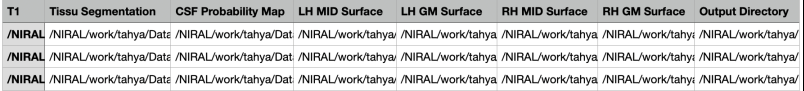
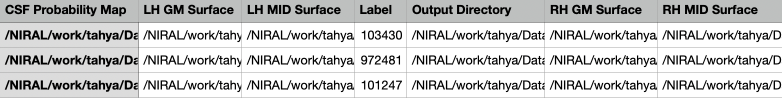
commit

diff --git a/src/app/csfwindow.cpp b/src/app/csfwindow.cpp
@@ -120,6 +120,10 @@ void CSFWindow::setConfig(QJsonObject root_obj)
 
     clean->setChecked(param_obj["Clean"].toBool());
     radioButton_slurm->setChecked(param_obj["Slurm"].toBool());
+    // to test:
+    if(param_obj["Slurm"].toBool()==true){radioButton_slurm->setChecked(true);}
+    else{radioButton_slurm->setChecked(false);}
+    /// /////
     if(param_obj["Slurm"].toBool())
         {slurm_parameters_state(true);}
     else{slurm_parameters_state(false);}
@@ -388,6 +392,19 @@ void CSFWindow::on_Data_Directory_clicked()
          lineEdit_Data_Directory->setText(path);
      }
 }
+
+void CSFWindow::on_checkBox_75P_Surface_batch_stateChanged(int state)
+{
+    bool enab;
+        if (state==Qt::Checked){enab=true;}
+        else{enab=false;}
+        LH_GM_filter->setEnabled(enab);
+        RH_GM_filter->setEnabled(enab);
+        lineEdit_LH_GM_filter->setEnabled(enab);
+        lineEdit_RH_GM_filter ->setEnabled(enab);
+        checkBox_75P_Surface->setChecked(enab);
+
+}
 void CSFWindow::on_Find_clicked()
 {
    QString data_directory = lineEdit_Data_Directory->text();
@@ -474,7 +491,7 @@ bool CSFWindow::Find_File(QDir oDir, QString filter, QString key, QMap<QString, 
 
 void CSFWindow::on_Add_clicked()
 {
-    addWidget *add_Widget = new addWidget();
+    addWidget *add_Widget = new addWidget(0,checkBox_75P_Surface_batch->isChecked());
     connect(add_Widget, SIGNAL(add_to_model( QMap<QString, QString>* )), this, SLOT(addToModel(QMap<QString, QString>* )));
     add_Widget->show();
 }
@@ -509,17 +526,17 @@ void CSFWindow::on_Help_clicked()
     help->resize(900, 520);
 
     QLabel *help_txt_1 = new QLabel(help);
-    help_txt_1->setGeometry(20,10,200,30);
-    help_txt_1->setText("<b> The Data Directory should be like: </b>");
+    help_txt_1->setGeometry(20,10,900,30);
+    help_txt_1->setText("<b> The Data Directory should be like the following example, if you don't want to use 75P surface no need to provide LH_GM.vtk and RH_GM.vtk: </b> " );
 
     QLabel *Data_directory_image = new QLabel(help);
-    Data_directory_image->setGeometry(20,30,800,300);
+    Data_directory_image->setGeometry(20,20,800,300);
     QPixmap pic(":/batch/BatchProcessingDirectory.png");
     Data_directory_image->setPixmap(pic);
 
     QLabel *help_txt_2 = new QLabel(help);
-    help_txt_2->setGeometry(20,330,700,30);
-    help_txt_2->setText("<b> The CSV File should be like the following example ( the order of the header doesn't matter) : </b>");
+    help_txt_2->setGeometry(20,330,900,30);
+    help_txt_2->setText("<b> The CSV File should be like the following example ( the order of the header doesn't matter) same as above about providing LH_GM.vtk and RH_GM.vtk: </b>");
 
     QLabel *CSV_image = new QLabel(help);
     CSV_image->setGeometry(20,250,800,320);
@@ -709,6 +726,19 @@ void CSFWindow::on_output_directory_clicked()
     }
 }
 
+void CSFWindow::on_checkBox_75P_Surface_stateChanged(int state)
+{
+    bool enab;
+    if (state==Qt::Checked){enab=true;}
+    else{enab=false;}
+    gray_matter_surfaces->setEnabled(enab);
+    LH_GM_Surface->setEnabled(enab);
+    RH_GM_Surface->setEnabled(enab);
+    lineEdit_LH_GM_Surface->setEnabled(enab);
+    lineEdit_RH_GM_Surface->setEnabled(enab);
+}
+
+
 // 3rd Tab - Executables tab
 void CSFWindow::updateExecutables(QString exeName, QString path)
 {
@@ -856,40 +886,46 @@ void CSFWindow::run_Local_EACSF(int row)
     QString scripts_dir = QDir::cleanPath(output_dir + QString("/LocalEACSF") + QString("/PythonScripts"));
     QString outlog_filename = QDir::cleanPath(output_dir + QString("/LocalEACSF") + QString("/output_log.txt"));
     QString errlog_filename = QDir::cleanPath(output_dir + QString("/LocalEACSF") + QString("/errors_log.txt"));
+    QString CSF_volume_filename = QDir::cleanPath(output_dir + QString("/LocalEACSF") + QString("/CSFVolume.txt"));
+    QFile volume_file(CSF_volume_filename);
 
 
     if (radioButton_local->isChecked())
     {  
+        if(volume_file.exists()) 
+        {       
+            output->append(QString("Compute Local EACSF Density already done for ID: ") + data_obj["Label"].toString() + QString("already done"));
+        } 
+        else
+        {
+            CleanFile(outlog_filename);
+            CleanFile(errlog_filename);
 
-        CleanFile(outlog_filename);
-        CleanFile(errlog_filename);
+            QString main_script = QDir::cleanPath(scripts_dir + QString("/main_script.py"));
+            QStringList params = QStringList() << main_script;
 
-        QString main_script = QDir::cleanPath(scripts_dir + QString("/main_script.py"));
-        QStringList params = QStringList() << main_script;
-
-        prc->setWorkingDirectory(output_dir); 
-        connect(prc, &QProcess::readyReadStandardOutput, [prc, outlog_filename, this](){
-           disp_output(prc, outlog_filename);
-        });
-        connect(prc, &QProcess::readyReadStandardError, [prc, errlog_filename, this](){
-           disp_err(prc, errlog_filename);
-        });
-        connect(prc, static_cast<void(QProcess::*)(int, QProcess::ExitStatus)>(&QProcess::finished), [prc, outlog_filename, errlog_filename, row, this ](){
-            prc_finished(prc, outlog_filename, errlog_filename, row);  
-        });
-       
-        QMap<QString, QString> executables = m_exeWidget->GetExeMap();
-        prc->start(executables[QString("python3")], params);  
-        
+            prc->setWorkingDirectory(output_dir); 
+            connect(prc, &QProcess::readyReadStandardOutput, [prc, outlog_filename, this](){
+               disp_output(prc, outlog_filename);
+            });
+            connect(prc, &QProcess::readyReadStandardError, [prc, errlog_filename, this](){
+               disp_err(prc, errlog_filename);
+            });
+            connect(prc, static_cast<void(QProcess::*)(int, QProcess::ExitStatus)>(&QProcess::finished), [prc, outlog_filename, errlog_filename, row, this ](){
+                prc_finished(prc, outlog_filename, errlog_filename, row);  
+            });
+           
+            QMap<QString, QString> executables = m_exeWidget->GetExeMap();
+            prc->start(executables[QString("python3")], params);         
+        }
     }
     
     if (radioButton_slurm->isChecked())
     {
-        QString CSF_volume_filename = QDir::cleanPath(output_dir + QString("/LocalEACSF") + QString("/CSFVolume.txt"));
-        QFile volume_file(CSF_volume_filename);
+        
         if(volume_file.exists()) 
         {       
-            output->append(QString("Compute Local EACSF Density already done"));
+            output->append(QString("Compute Local EACSF Density already done for ID: ") + data_obj["Label"].toString()  + QString("already done"));
         } 
         else
         {
@@ -1037,7 +1073,8 @@ void CSFWindow::on_Compare_clicked()
         {
             QString left = tableWidget->item(row,0)->text();
             QString right = tableWidget->item(row,1)->text();
-            float difference = (left.toFloat() - right.toFloat())/ (left.toFloat() + right.toFloat())/2;
+            //float difference = (left.toFloat() - right.toFloat())/ (left.toFloat() + right.toFloat())/2;
+            float difference = (left.toFloat() - right.toFloat())/ ((left.toFloat() + right.toFloat())/2);
             tableWidget->setItem( row, 2, new QTableWidgetItem( QString::number( difference * 100, 'f' , 2 ))); 
         }                   
     }
@@ -1058,30 +1095,8 @@ void CSFWindow::on_Compare_clicked()
     }   
 }
 
-void CSFWindow::on_checkBox_75P_Surface_stateChanged(int state)
-{
-    bool enab;
-    if (state==Qt::Checked){enab=true;}
-    else{enab=false;}
-    gray_matter_surfaces->setEnabled(enab);
-    LH_GM_Surface->setEnabled(enab);
-    RH_GM_Surface->setEnabled(enab);
-    lineEdit_LH_GM_Surface->setEnabled(enab);
-    lineEdit_RH_GM_Surface->setEnabled(enab);
-}
 
-void CSFWindow::on_checkBox_75P_Surface_batch_stateChanged(int state)
-{
-    bool enab;
-        if (state==Qt::Checked){enab=true;}
-        else{enab=false;}
-        LH_GM_filter->setEnabled(enab);
-        RH_GM_filter->setEnabled(enab);
-        lineEdit_LH_GM_filter->setEnabled(enab);
-        lineEdit_RH_GM_filter ->setEnabled(enab);
-        checkBox_75P_Surface->setChecked(enab);
 
-}
 
 void CSFWindow::on_visualize_batch_clicked()
 {
@@ -1120,8 +1135,8 @@ void CSFWindow::on_help_clicked()
     help->resize(900, 200);
 
     QLabel *help_txt_1 = new QLabel(help);
-    help_txt_1->setGeometry(20,10,200,30);
-    help_txt_1->setText("<b> The CSV file  should be like: </b>");
+    help_txt_1->setGeometry(20,10,800,30);
+    help_txt_1->setText("<b> The CSV file  should be like the followinf example. this csv file is created while batch processing and you can find it in the data directory : </b>");
 
     QLabel *Data_directory_image = new QLabel(help);
     Data_directory_image->setGeometry(20,30,800,150);

diff --git a/src/app/main_script.py b/src/app/main_script.py
@@ -56,10 +56,10 @@ def main(args):
 	RH_CSFDensity_Path = os.path.join(args.Output_Directory, "LocalEACSF", "RH_Directory", args.Label + "_RH_" + surface + "_CSF_Density_Final.txt")
 	####
 	if(path.exists(os.path.join(OUT_PATH, args.Label + "_CSFVolume.txt"))):
-		print("Compute Local EACSF Density already done",flush=True)
+		print('Compute Local EACSF density already done for ID {} is already done'.format(args.Label) , flush=True)
 	else :
 		Process_Left_Side = subprocess.call([python, process_left_hemisphere])
-		#Process_Right_Side = subprocess.call([python, process_right_hemisphere])
+		Process_Right_Side = subprocess.call([python, process_right_hemisphere])
 	
 		if (os.path.isfile(LH_CSFDensity_Path) and os.path.isfile(RH_CSFDensity_Path)):
 			os.chdir(OUT_PATH)
@@ -80,20 +80,26 @@ def main(args):
 				os.path.join("RH_Directory", args.Label + "_CSF_Probability_Map.nrrd"),"--CSFFile", os.path.join("RH_Directory", args.Label\
 				+ "_RH_" + surface + "_CSF_Density_Final.txt") , "--Side", "Right", "--Label", args.Label])
 
-		if (os.path.isfile("../Outputs.csv")):
+			if (os.path.isfile("../Outputs.csv")):
 
-			header = ["LH CSF Density", "RH CSF Density", "LH Visitation Map", "RH Visitation Map"]
-			LH_CSF_Density = os.path.join(args.Output_Directory, "LocalEACSF", "LH_Directory", args.Label + "_LH_" + surface + "_CSF_Density.vtk")
-			RH_CSF_Density = os.path.join(args.Output_Directory, "LocalEACSF", "RH_Directory", args.Label + "_RH_" + surface + "_CSF_Density.vtk")
-			LH_Visitation_Map = os.path.join(args.Output_Directory, "LocalEACSF", "LH_Directory", args.Label + "_LH_Visitation.nrrd")
-			RH_Visitation_Map = os.path.join(args.Output_Directory, "LocalEACSF", "RH_Directory", args.Label + "_RH_Visitation.nrrd")
-			
-			line = [LH_CSF_Density, RH_CSF_Density, LH_Visitation_Map, RH_Visitation_Map ]			
-			f = csv.writer(open('../Outputs.csv','a'))
-			needs_header = os.stat('../Outputs.csv').st_size == 0
-			if needs_header:
-				f.writerow(header)
-			f.writerow(line)	
+				header = ["LH CSF Density", "RH CSF Density", "LH Visitation Map", "RH Visitation Map"]
+				LH_CSF_Density = os.path.join(args.Output_Directory, "LocalEACSF", "LH_Directory", args.Label + "_LH_" + surface + "_CSF_Density.vtk")
+				RH_CSF_Density = os.path.join(args.Output_Directory, "LocalEACSF", "RH_Directory", args.Label + "_RH_" + surface + "_CSF_Density.vtk")
+				LH_Visitation_Map = os.path.join(args.Output_Directory, "LocalEACSF", "LH_Directory", args.Label + "_LH_Visitation.nrrd")
+				RH_Visitation_Map = os.path.join(args.Output_Directory, "LocalEACSF", "RH_Directory", args.Label + "_RH_Visitation.nrrd")
+				LH_CSF_Density_Inflated = os.path.join(args.Output_Directory, "LocalEACSF", "LH_Directory", args.Label + "_LH_" + surface + "_Inflated.vtk")
+				RH_CSF_Density_Inflated = os.path.join(args.Output_Directory, "LocalEACSF", "RH_Directory", args.Label + "_RH_" + surface + "_Inflated.vtk")
+				line = [LH_CSF_Density, RH_CSF_Density, LH_Visitation_Map, RH_Visitation_Map ]	
+
+				if(os.path.isfile(LH_CSF_Density_Inflated) and os.path.isfile(RH_CSF_Density_Inflated)):
+					header = ["LH CSF Density", "RH CSF Density", "LH Visitation Map", "RH Visitation Map", "LH CSF Density Inflated", "RH CSF Density Inflated"]
+					line = [LH_CSF_Density, RH_CSF_Density, LH_Visitation_Map, RH_Visitation_Map, LH_CSF_Density_Inflated, RH_CSF_Density_Inflated ]
+
+				f = csv.writer(open('../Outputs.csv','a'))
+				needs_header = os.stat('../Outputs.csv').st_size == 0
+				if needs_header:
+					f.writerow(header)
+				f.writerow(line)	
 
 	print("Local_EACSF finished",flush=True)
 	sys.exit(0)

diff --git a/src/app/process_left_hemisphere.py b/src/app/process_left_hemisphere.py
@@ -85,7 +85,7 @@ def optimize_csfdensity (surface): ## optimize
 	call_and_print([args.AddScalarstoPolyData, "--InputFile", args.Label + "_LH_" + surface + "_CSF_Density.vtk", "--OutputFile", args.Label + "_LH_" + surface + "_CSF_Density.vtk",\
 	"--ScalarsFile", args.Label + "_LH_" + surface + "_CSF_Density_Interpolated.txt", "--Scalars_Name", 'CSF_Density_Interpolated'])
 
-	### add scalars to csfdensity_inflating.vtk
+	### add scalars to csfdensity_inflated
 	if(args.LH_Inflating_Template != ""):
 		copyfile(args.LH_Inflating_Template, "LH_" + surface + "_Inflating_Template.vtk")
 		call_and_print([args.AddScalarstoPolyData, "--InputFile", args.Label + "_LH_" + surface + "_Inflating_Template.vtk", "--OutputFile", args.Label + "_LH_" + surface + "_Inflating_Template.vtk",\
@@ -142,11 +142,11 @@ def main_loop(args):
 			"--OutputSurface", args.Label +"_LH_" + surface + "_CSF_Density.vtk"])
 
 		if(args.LH_Inflating_Template != ""):
-			copyfile(args.LH_Inflating_Template, args.Label + "_LH_" + surface + "_Inflating_Template.vtk")
-			call_and_print([args.AddScalarstoPolyData, "--InputFile", args.Label +"_LH_" + surface + "_Inflating_Template.vtk", "--OutputFile", args.Label + "_LH_" + surface + "_Inflating_Template.vtk",\
+			copyfile(args.LH_Inflating_Template, args.Label + "_LH_" + surface + "_Inflated.vtk")
+			call_and_print([args.AddScalarstoPolyData, "--InputFile", args.Label +"_LH_" + surface + "_Inflated.vtk", "--OutputFile", args.Label + "_LH_" + surface + "_Inflated.vtk",\
 			"--ScalarsFile", args.Label + "_LH_" + surface + "_CSF_Density_Final.txt", "--Scalars_Name", 'CSF_Density_Final'])
 			if(args.Smooth) :
-				call_and_print([args.AddScalarstoPolyData, "--InputFile", args.Label + "_LH_" + surface + "_Inflating_Template.vtk", "--OutputFile", args.Label + "_LH_" + surface + "_Inflating_Template.vtk",\
+				call_and_print([args.AddScalarstoPolyData, "--InputFile", args.Label + "_LH_" + surface + "_Inflated.vtk", "--OutputFile", args.Label + "_LH_" + surface + "_Inflated.vtk",\
 				"--ScalarsFile", args.Label + "_LH_" + surface + "_CSF_Density_Final_Smoothed.txt", "--Scalars_Name", 'CSF_Density_Final_Smoothed'])
 	end = time.time()
 	print("time for LH:",end - start, flush=True)
@@ -206,9 +206,6 @@ def processing(args, DirectoryName, Surface, ImageDimension):
 		print('Creating LH streamlines', flush=True)
 		print('CEstablishing Surface Correspondance', flush=True)
 		
-		# call_and_print([klaplace,'-dims', ImageDimension, args.Label + "_LH_" + Surface + ".vtk",\
-		# "/work/tahya/Data/local_EACSf_Extraction/Ben_Test/101247/101247_LH_GM_Outer_MC.vtk",\
-		# '-surfaceCorrespondence',args.Label +"_LH_Outer.corr"])
 		call_and_print([klaplace,'-dims', ImageDimension, args.Label + "_LH_" + Surface + ".vtk", args.Label + "_LH_GM_Outer_MC.vtk",'-surfaceCorrespondence',args.Label +"_LH_Outer.corr"])
 		print('CEstablishing Streamlines', flush=True)
 		call_and_print([klaplace, '-traceStream',args.Label +"_LH_Outer.corr_field.vts", args.Label +"_LH_" + Surface + ".vtk", args.Label + "_LH_GM_Outer_MC.vtk", args.Label + "_LH_Outer_streamlines.vtp", \

diff --git a/src/app/addWidget.cpp b/src/app/addWidget.cpp
@@ -8,10 +8,11 @@
 #include <QCoreApplication>
 #include <QVector>
 #include <QMessageBox>
+#include <QCheckBox>
 
 #include "addWidget.h"
 
-addWidget::addWidget(QWidget *m_parent)
+addWidget::addWidget(QWidget *m_parent, bool value)
 : QWidget(m_parent)
 {
 
@@ -21,10 +22,18 @@ addWidget::addWidget(QWidget *m_parent)
     verticalLayout->setSpacing(0);
 	verticalLayout->setMargin(0); 
 	verticalLayout->setContentsMargins( 0, 0, 0, 0 );
- 
+    use_75_surface = value;
+
+    
     QVector<QString> vector;
-    vector << QString("T1")  << QString("Tissu Segmentation") << QString("CSF Probability Map")  << QString("LH MID Surface")  << QString("LH GM Surface") << 
-    QString("RH MID Surface")  << QString("RH GM Surface") << QString("Output Directory");
+    vector << QString("Tissu Segmentation") << QString("CSF Probability Map") << QString("LH MID Surface") << QString("RH MID Surface")  << QString("Output Directory");
+
+    if(use_75_surface)
+    {
+        vector.clear();
+        vector << QString("Tissu Segmentation") << QString("CSF Probability Map")  << QString("LH MID Surface")  << QString("LH GM Surface") << 
+        QString("RH MID Surface")  << QString("RH GM Surface") << QString("Output Directory");
+    }
 
 
     foreach (const QString inputName, vector) 

diff --git a/src/app/process_right_hemisphere.py b/src/app/process_right_hemisphere.py
@@ -85,10 +85,10 @@ def optimize_csfdensity (surface):
 
 	if(args.RH_Inflating_Template != ""):
 
-		copyfile(args.RH_Inflating_Template, "RH_" + surface + "_Inflating_Template.vtk")
-		call_and_print([args.AddScalarstoPolyData, "--InputFile", args.Label + "_RH_" + surface + "_Inflating_Template.vtk", "--OutputFile", "RH_" + surface + "_Inflating_Template.vtk",\
+		copyfile(args.RH_Inflating_Template, args.Label + "RH_" + surface + "_Inflated.vtk")
+		call_and_print([args.AddScalarstoPolyData, "--InputFile", args.Label + "_RH_" + surface + "_Inflated.vtk", "--OutputFile", "RH_" + surface + "_Inflated.vtk",\
 		"--ScalarsFile", args.Label + "_RH_" + surface + "_CSF_Density_Interpolated.txt", "--Scalars_Name", 'CSF_Density_Interpolated'])
-		call_and_print([args.AddScalarstoPolyData, "--InputFile", args.Label + "_RH_" + surface + "_Inflating_Template.vtk", "--OutputFile", args.Label + "_RH_" + surface + "_Inflating_Template.vtk",\
+		call_and_print([args.AddScalarstoPolyData, "--InputFile", args.Label + "_RH_" + surface + "_Inflated.vtk", "--OutputFile", args.Label + "_RH_" + surface + "_Inflated.vtk",\
 		"--ScalarsFile", args.Label + "_RH_" + surface + "_CSF_Density.txt", "--Scalars_Name", 'CSF_Density_Original'])
 
 	original_density_average = average(EACSFFile)

diff --git a/src/app/addWidget.h b/src/app/addWidget.h
@@ -9,7 +9,7 @@ class addWidget : public QWidget
 	Q_OBJECT
 
 public:
-    addWidget(QWidget *parent=0);
+    addWidget(QWidget *parent=0, bool value=false);
 
 signals:
    void add_to_model(QMap<QString, QString> *row);
@@ -17,6 +17,8 @@ private slots:
    void inputQpbTriggered();
    void outputdirectoryQpbTriggered();
    void on_apply_clicked();
+public:
+    bool use_75_surface;
 };
 
 #endif
